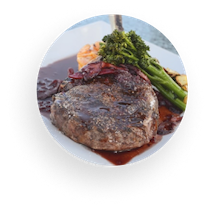
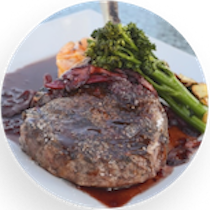
correct picture size and border

diff --git a/public/css/menuItem.css b/public/css/menuItem.css
@@ -80,8 +80,6 @@ body {
   /* Make sure the image fills the container */
   object-fit: cover;
 
-  filter: drop-shadow(-10px 20px 40px rgba(0, 0, 0, 0.16));
-
   overflow: hidden;
 }
 
